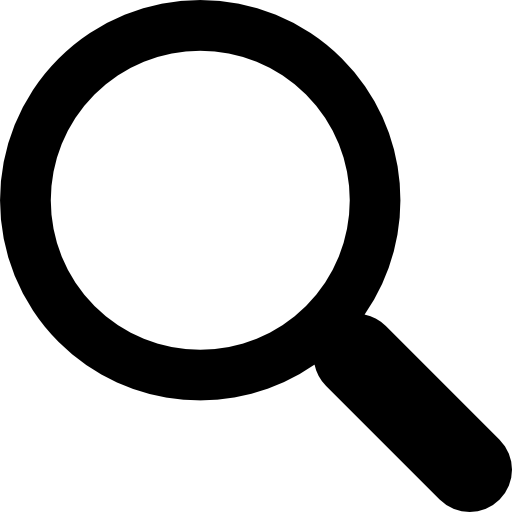
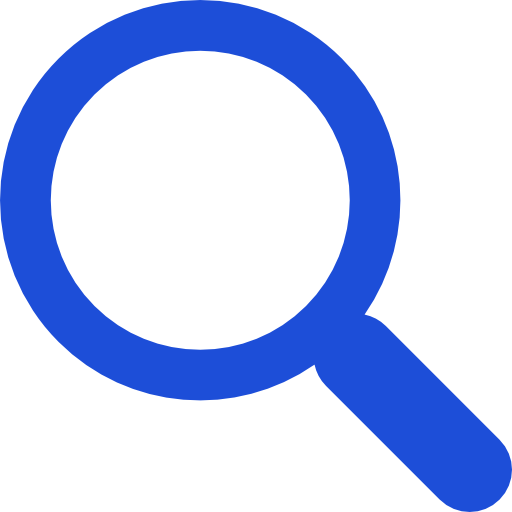
색감 변경

Changed region(s): [[0.0, 0.0, 1.0, 1.0]]

diff --git a/board-front/src/layouts/NavigationBar.tsx b/board-front/src/layouts/NavigationBar.tsx
@@ -126,7 +126,7 @@ export const NavigationBar = () => {
             <div className={styles.navBar}>
                 <div className={styles.navLeft}>
                     <Link to='' className={styles.logo}>
-                        <img src={logo} alt="로고" width="180" height="180"></img>
+                        <img src={logo} alt="로고" width="130" height="180"></img>
                     </Link>
 
                     <div className={styles.menuIcon} onClick={() => setIsMenuOpen(!isMenuOpen)}>
@@ -204,7 +204,7 @@ export const NavigationBar = () => {
                                     <li>
                                         {/* 마이페이지 아이콘과 링크를 여기에 구현 */}
                                         <Link to='/myPage' className={styles.icon}>
-                                            <img src={loginIcon} alt='마이페이지' style={{ width: 50, height: 50 }} />
+                                            <img src={loginIcon} alt='마이페이지' style={{ width: 40, height: 'auto' }} />
                                             <span className={styles.iconTitle}> 마이페이지 </span>
                                         </Link>
                                     </li>

diff --git a/board-front/src/layouts/NavigationBar.module.css b/board-front/src/layouts/NavigationBar.module.css
@@ -69,11 +69,9 @@
 }
 
 .productCategory li:hover {
-    color: #333;
+    color: rgb(29, 78, 216);
     font-weight: bold;
     transform: scale(1.1);
-    text-decoration: underline;
-    text-underline-offset: 5px;
 }
 .searchContainer {
     position: relative;
@@ -111,7 +109,7 @@
 }
 
 .searchInput {
-    border: 2px solid #333;
+    border: 2px solid rgb(29, 78, 216);
     border-radius: 50px;
     height: 50px;
     display: flex;
@@ -151,11 +149,9 @@
 }
 
 .userCategory li:hover {
-    color: #333;
+    color: rgb(29, 78, 216);
     font-weight: bold;
     transform: scale(1.1);
-    text-decoration: underline;
-    text-underline-offset: 5px;
 }
 
 .icon {

diff --git a/board-front/src/components/SideBar/RecentProducts.module.css b/board-front/src/components/SideBar/RecentProducts.module.css
@@ -8,7 +8,10 @@
 }
 .title {
     font-size: 15px;
-    color: black;
+    text-align: center;
+    margin: 10px 0px;
+    color: rgb(29, 78, 216);
+    font-weight: bold;
 }
 
 .recentProductsContainer ul {
@@ -40,8 +43,12 @@
 }
 
 .buttonContainer {
-    margin-top: 1rem;
+    margin: 0.5rem 0rem;
     display: flex;
     justify-content: space-around;
     font-size: 13px;
+}
+
+.scrollButton{
+    
 }

diff --git a/board-front/src/components/SideBar/RecentProducts.tsx b/board-front/src/components/SideBar/RecentProducts.tsx
@@ -27,7 +27,7 @@ const RecentProducts: React.FC = () => {
     
     return (
         <div className={styles.recentProductsContainer}>
-            <p className={styles.title}>최근 본 상품</p>
+            <div className={styles.title}>최근 본 상품</div>
             <div>
                 <ul ref={productListRef}>
                     {recentProducts.map(product => (
